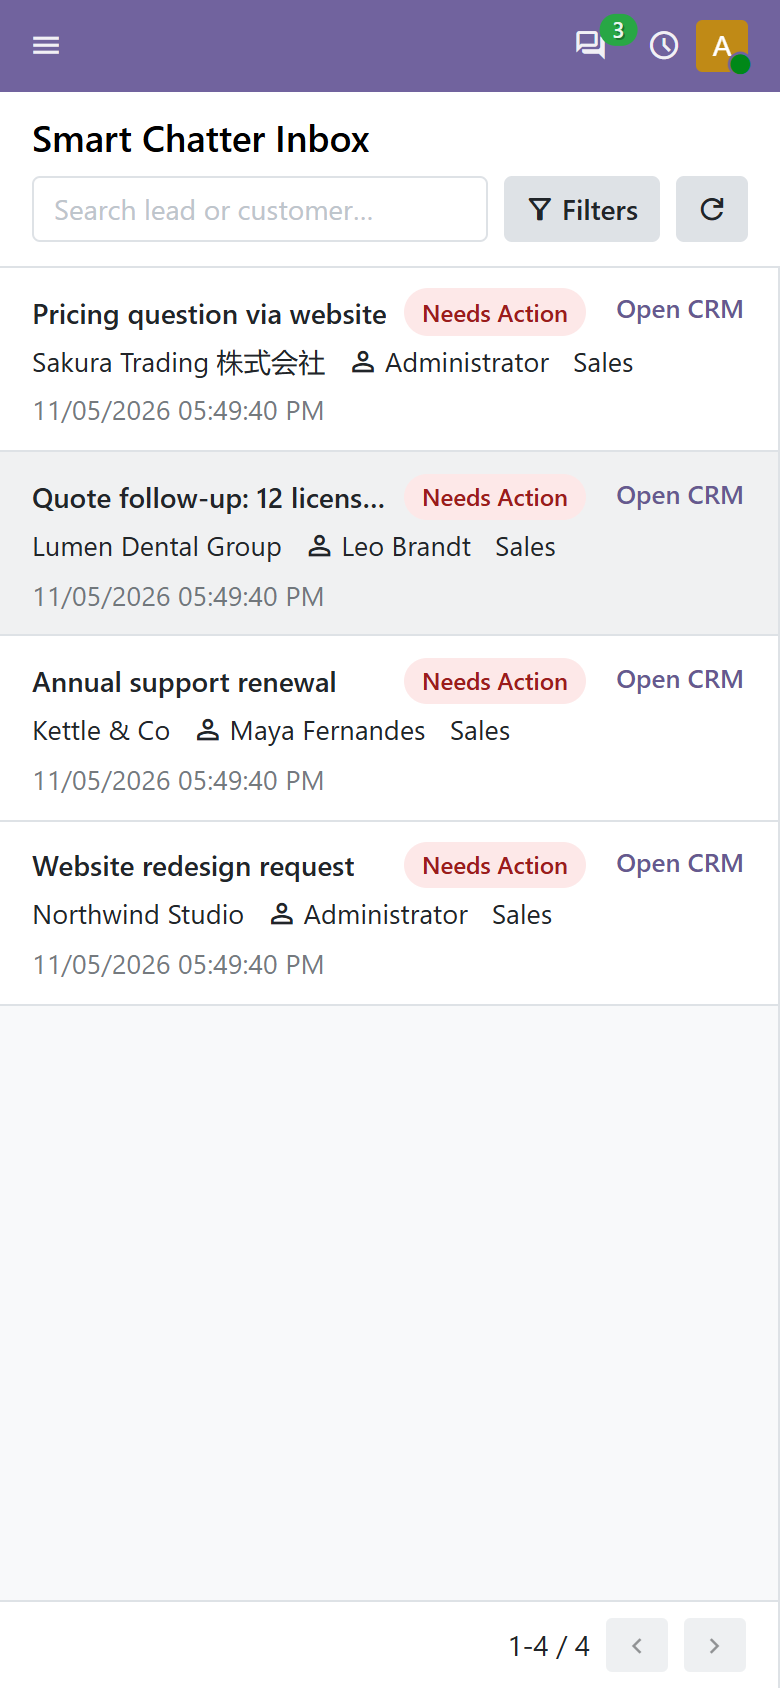
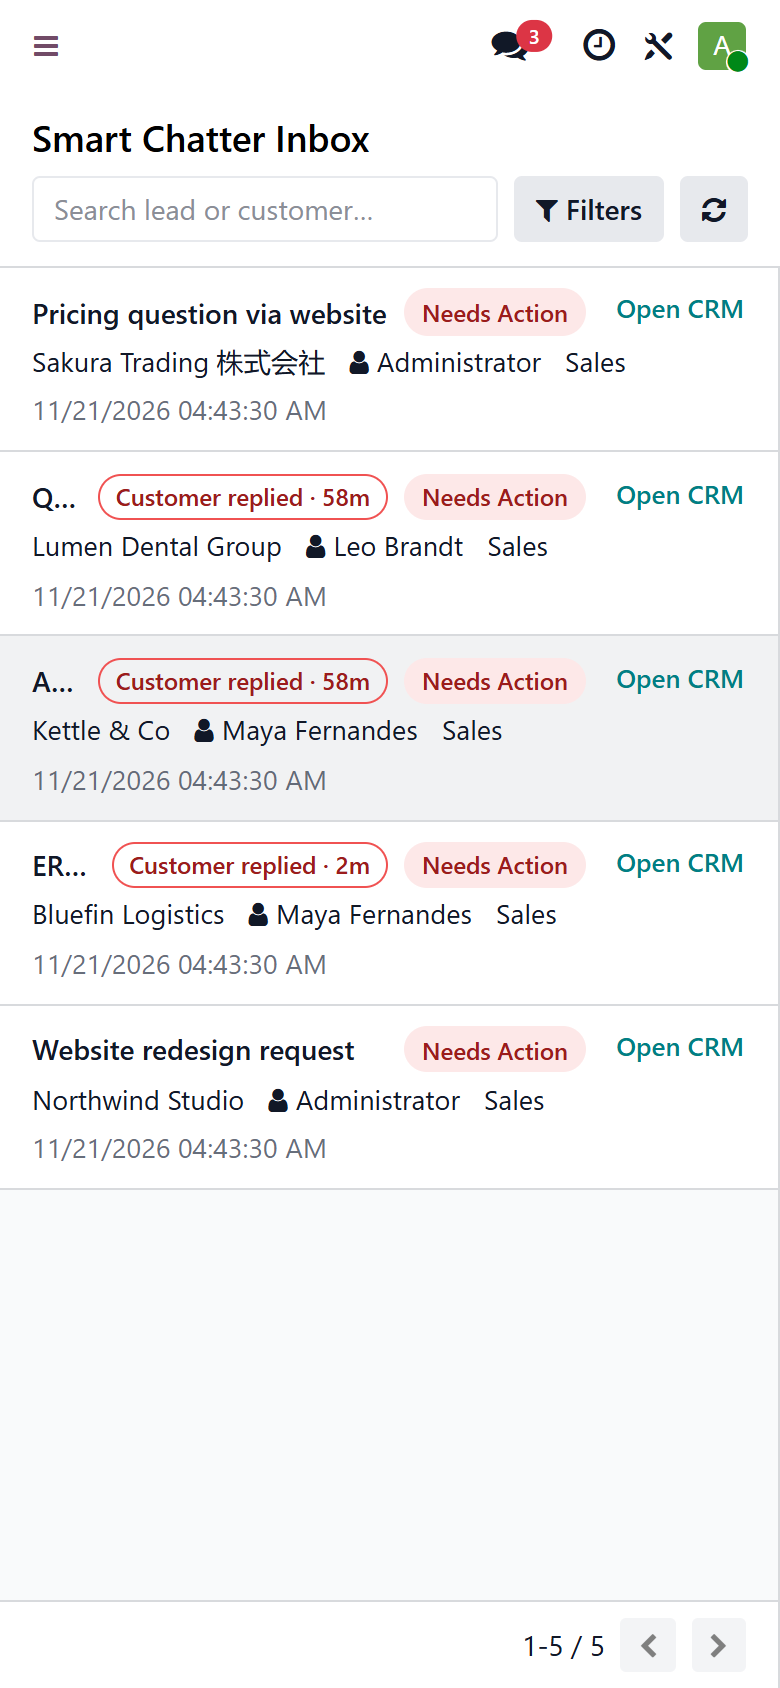
Store listing: Unanswered Leads name, reply-detection demo
- Name "CRM Follow Up Inbox | Unanswered Leads, Reminder & Snooze" and
  summary with "unanswered customer emails" / "unanswered leads"
- Store page: new DETECT demo (gif_reply.gif, a real customer email through
  the mail gateway), Unanswered feature card, two comparison rows, FAQ
  rewritten (how detection works, 17/18 out-of-office caveat), security
  text no longer claims zero privileged code
- hero.png subtitle and numbers.png stats (55+ tests, 4 Odoo versions)
- All GIFs and screenshots re-recorded on 19 with the Unanswered filter
- record_gifs.py: reply scene, snooze date relative to today
- seed_demo.py: restore customer-reply flags on re-run instead of posting
  duplicate emails

diff --git a/sd_smart_chatter_inbox/static/description/index.html b/sd_smart_chatter_inbox/static/description/index.html
@@ -5,8 +5,8 @@
 <!-- ============ HERO ============ -->
 <section class="oe_container" style="padding: 0 0 8px;">
     <img src="hero.png" alt="CRM Follow Up Inbox for Odoo: never lose a lead follow up again. $19 one-time." style="width: 100%; display: block; border-radius: 16px;"/>
-    <h1 style="text-align: center; color: #111827; font-size: 32px; font-weight: 800; margin: 26px 0 6px;">CRM Follow Up Inbox for Odoo: never miss a lead follow up</h1>
-    <p style="text-align: center; color: #4b5563; font-size: 17px; line-height: 1.6; max-width: 820px; margin: 0 auto;">One follow up queue for your whole sales team. See which leads need a reply from you, which are waiting for the customer, snooze a lead until the day you need it, and assign a follow up owner. Works inside Odoo CRM.</p>
+    <h1 style="text-align: center; color: #111827; font-size: 32px; font-weight: 800; margin: 26px 0 6px;">CRM Follow Up Inbox for Odoo: no more unanswered leads</h1>
+    <p style="text-align: center; color: #4b5563; font-size: 17px; line-height: 1.6; max-width: 820px; margin: 0 auto;">One lead follow up queue for your whole sales team. When a customer emails, the lead jumps back to <b>Needs Action</b> and appears in the <b>Unanswered</b> list. When your team replies, it moves to <b>Waiting</b>. Snooze a lead until the day you need it and assign a follow up owner. Works inside Odoo CRM.</p>
     <div style="max-width: 1000px; margin: 22px auto 0; border: 1px solid #c7d2fe; border-radius: 14px; padding: 8px; box-shadow: 0 10px 30px rgba(49,46,129,.18);">
         <img src="gif_filters.gif" alt="Odoo CRM lead follow up queue: search and filter leads by status, owner and team" style="width: 100%; display: block; border-radius: 8px;"/>
     </div>
@@ -33,7 +33,7 @@
             <div style="height: 100%; border: 1px solid #e0e7ff; border-top: 4px solid #4f46e5; border-radius: 12px; padding: 22px;">
                 <p style="font-size: 30px; margin: 0 0 8px;">&#128101;</p>
                 <h3 style="font-size: 20px; font-weight: 700; color: #312e81; margin: 0 0 8px;">Sales teams</h3>
-                <p style="color: #4b5563; font-size: 15px; line-height: 1.6; margin: 0;">Everyone sees which leads are waiting on <b>us</b> and which are waiting on the <b>customer</b>. No more "did anyone reply to this?"</p>
+                <p style="color: #4b5563; font-size: 15px; line-height: 1.6; margin: 0;">Everyone sees which leads are waiting on <b>us</b> and which are waiting on the <b>customer</b>. Customer replies are flagged automatically, so nobody has to ask "did anyone reply to this?"</p>
             </div>
         </div>
         <div class="col-md-4" style="padding: 8px;">
@@ -59,22 +59,29 @@
     <h2 style="text-align: center; color: #111827; font-size: 30px; font-weight: 700; margin: 4px 0 6px;">See it actually happen</h2>
     <p style="text-align: center; color: #4b5563; font-size: 16px; margin: 0 0 28px;">Recorded in a real Odoo database. No mock-ups.</p>
 
+    <div style="border: 1px solid #e0e7ff; border-left: 5px solid #dc2626; border-radius: 12px; padding: 22px; margin-bottom: 26px;">
+        <p style="margin: 0;"><span style="display: inline-block; border: 2px solid #dc2626; color: #dc2626; font-weight: 700; font-size: 13px; padding: 2px 12px; border-radius: 14px;">1 &middot; DETECT</span></p>
+        <h3 style="font-size: 22px; font-weight: 700; color: #111827; margin: 12px 0 6px;">Unanswered leads come back by themselves</h3>
+        <p style="color: #4b5563; font-size: 15px; line-height: 1.6; margin: 0 0 16px;">A customer replies to a lead that was Waiting. The email arrives through Odoo's normal incoming mail, and the lead goes straight back to <b>Needs Action</b> with a <b>Customer replied</b> flag and how long ago they wrote. When your team answers from the chatter, it moves to <b>Waiting</b> again. No one has to triage it by hand.</p>
+        <img src="gif_reply.gif" alt="Odoo CRM unanswered leads: a customer email moves the lead back to Needs Action automatically" style="width: 100%; border-radius: 8px; border: 1px solid #e5e7eb;"/>
+    </div>
+
     <div style="border: 1px solid #e0e7ff; border-left: 5px solid #4f46e5; border-radius: 12px; padding: 22px; margin-bottom: 26px;">
-        <p style="margin: 0;"><span style="display: inline-block; border: 2px solid #4f46e5; color: #4f46e5; font-weight: 700; font-size: 13px; padding: 2px 12px; border-radius: 14px;">1 &middot; TRIAGE</span></p>
+        <p style="margin: 0;"><span style="display: inline-block; border: 2px solid #4f46e5; color: #4f46e5; font-weight: 700; font-size: 13px; padding: 2px 12px; border-radius: 14px;">2 &middot; TRIAGE</span></p>
         <h3 style="font-size: 22px; font-weight: 700; color: #111827; margin: 12px 0 6px;">Set a status and an owner in two clicks</h3>
         <p style="color: #4b5563; font-size: 15px; line-height: 1.6; margin: 0 0 16px;">Select a lead, choose <b>Waiting</b>, pick a team-mate as follow up owner and save. It moves out of Needs Action straight away.</p>
         <img src="gif_triage.gif" alt="Set lead follow up status and follow up owner in Odoo CRM" style="width: 100%; border-radius: 8px; border: 1px solid #e5e7eb;"/>
     </div>
 
     <div style="border: 1px solid #e0e7ff; border-left: 5px solid #2563eb; border-radius: 12px; padding: 22px; margin-bottom: 26px;">
-        <p style="margin: 0;"><span style="display: inline-block; border: 2px solid #2563eb; color: #2563eb; font-weight: 700; font-size: 13px; padding: 2px 12px; border-radius: 14px;">2 &middot; SNOOZE</span></p>
+        <p style="margin: 0;"><span style="display: inline-block; border: 2px solid #2563eb; color: #2563eb; font-weight: 700; font-size: 13px; padding: 2px 12px; border-radius: 14px;">3 &middot; SNOOZE</span></p>
         <h3 style="font-size: 22px; font-weight: 700; color: #111827; margin: 12px 0 6px;">Snooze a lead: a follow up reminder for the right day</h3>
         <p style="color: #4b5563; font-size: 15px; line-height: 1.6; margin: 0 0 16px;">Pick a date and time in your own time zone. When it is due, the lead returns to Needs Action by itself. No scheduled job to configure.</p>
         <img src="gif_snooze.gif" alt="Snooze an Odoo CRM lead until a date and time: follow up reminder" style="width: 100%; border-radius: 8px; border: 1px solid #e5e7eb;"/>
     </div>
 
     <div style="border: 1px solid #e0e7ff; border-left: 5px solid #16a34a; border-radius: 12px; padding: 22px; margin-bottom: 26px;">
-        <p style="margin: 0;"><span style="display: inline-block; border: 2px solid #16a34a; color: #16a34a; font-weight: 700; font-size: 13px; padding: 2px 12px; border-radius: 14px;">3 &middot; ACT</span></p>
+        <p style="margin: 0;"><span style="display: inline-block; border: 2px solid #16a34a; color: #16a34a; font-weight: 700; font-size: 13px; padding: 2px 12px; border-radius: 14px;">4 &middot; ACT</span></p>
         <h3 style="font-size: 22px; font-weight: 700; color: #111827; margin: 12px 0 6px;">Schedule a follow up activity or reply in the chatter</h3>
         <p style="color: #4b5563; font-size: 15px; line-height: 1.6; margin: 0 0 16px;"><b>Schedule Follow-up</b> opens Odoo's own activity dialog. <b>Open Chatter</b> takes you to the lead, where you reply exactly as you do today.</p>
         <img src="gif_chatter.gif" alt="Schedule a follow up activity and open the lead chatter in Odoo" style="width: 100%; border-radius: 8px; border: 1px solid #e5e7eb;"/>
@@ -82,7 +89,7 @@
 
     <div class="row" style="margin: 0; border: 1px solid #e0e7ff; border-left: 5px solid #db2777; border-radius: 12px; padding: 22px 10px; align-items: center;">
         <div class="col-md-6" style="padding: 12px;">
-            <p style="margin: 0;"><span style="display: inline-block; border: 2px solid #db2777; color: #db2777; font-weight: 700; font-size: 13px; padding: 2px 12px; border-radius: 14px;">4 &middot; ON THE GO</span></p>
+            <p style="margin: 0;"><span style="display: inline-block; border: 2px solid #db2777; color: #db2777; font-weight: 700; font-size: 13px; padding: 2px 12px; border-radius: 14px;">5 &middot; ON THE GO</span></p>
             <h3 style="font-size: 22px; font-weight: 700; color: #111827; margin: 12px 0 6px;">Works on phones and tablets</h3>
             <p style="color: #4b5563; font-size: 15px; line-height: 1.6; margin: 0;">Three panes on desktop, a filter drawer on tablets, and a simple list-then-details flow on phones. Clear your queue from anywhere.</p>
         </div>
@@ -107,7 +114,7 @@
             <div style="height: 100%; border: 2px solid #c7d2fe; border-radius: 12px; padding: 22px;">
                 <p style="font-size: 40px; font-weight: 800; margin: 0; color: #4f46e5; line-height: 1;">02</p>
                 <h3 style="color: #111827; font-size: 20px; font-weight: 700; margin: 10px 0 6px;">Fill the queue</h3>
-                <p style="color: #4b5563; font-size: 15px; line-height: 1.6; margin: 0;">Turn on <b>Include untriaged leads</b> in CRM Settings, or set a status on the <b>Smart Inbox</b> tab of any lead.</p>
+                <p style="color: #4b5563; font-size: 15px; line-height: 1.6; margin: 0;">Customer emails add leads to the queue by themselves. To start with every open lead, turn on <b>Include untriaged leads</b> in CRM Settings.</p>
             </div>
         </div>
         <div class="col-md-4" style="padding: 8px;">
@@ -122,11 +129,14 @@
 
 <!-- ============ FEATURES ============ -->
 <section class="oe_container" style="padding: 44px 12px 8px;">
-    <h2 style="text-align: center; color: #111827; font-size: 30px; font-weight: 700; margin: 0 0 6px;">Lead follow up features: reminder, snooze, owner</h2>
+    <h2 style="text-align: center; color: #111827; font-size: 30px; font-weight: 700; margin: 0 0 6px;">Lead follow up features: unanswered leads, reminder, snooze, owner</h2>
     <p style="text-align: center; color: #4b5563; font-size: 16px; margin: 0 0 24px;">Nothing it doesn't.</p>
     <div class="row" style="margin: 0;">
         <div class="col-md-4 col-sm-6" style="padding: 8px;"><div style="height: 100%; border: 1px solid #e5e7eb; border-radius: 12px; padding: 18px;">
-            <h4 style="font-size: 17px; font-weight: 700; color: #111827; margin: 0 0 6px;"><span style="color: #dc2626;">&#9679;</span> Four clear statuses</h4>
+            <h4 style="font-size: 17px; font-weight: 700; color: #111827; margin: 0 0 6px;"><span style="color: #dc2626;">&#9679;</span> Unanswered leads, detected automatically</h4>
+            <p style="color: #4b5563; font-size: 14px; line-height: 1.6; margin: 0;">A customer email moves the lead to Needs Action and the <b>Unanswered</b> list. Your team's reply moves it to Waiting. Notes, automated emails and mass mailings are ignored.</p></div></div>
+        <div class="col-md-4 col-sm-6" style="padding: 8px;"><div style="height: 100%; border: 1px solid #e5e7eb; border-radius: 12px; padding: 18px;">
+            <h4 style="font-size: 17px; font-weight: 700; color: #111827; margin: 0 0 6px;"><span style="color: #d97706;">&#9679;</span> Four clear statuses</h4>
             <p style="color: #4b5563; font-size: 14px; line-height: 1.6; margin: 0;">Needs Action, Waiting, Done and Snoozed, plus quick views for <b>My Queue</b> and <b>All Visible</b>.</p></div></div>
         <div class="col-md-4 col-sm-6" style="padding: 8px;"><div style="height: 100%; border: 1px solid #e5e7eb; border-radius: 12px; padding: 18px;">
             <h4 style="font-size: 17px; font-weight: 700; color: #111827; margin: 0 0 6px;"><span style="color: #4f46e5;">&#9679;</span> Follow up owner</h4>
@@ -144,9 +154,6 @@
             <h4 style="font-size: 17px; font-weight: 700; color: #111827; margin: 0 0 6px;"><span style="color: #7c3aed;">&#9679;</span> Status on the lead form</h4>
             <p style="color: #4b5563; font-size: 14px; line-height: 1.6; margin: 0;">A <b>Smart Inbox</b> tab on every lead lets you triage it without leaving the form.</p></div></div>
         <div class="col-md-4 col-sm-6" style="padding: 8px;"><div style="height: 100%; border: 1px solid #e5e7eb; border-radius: 12px; padding: 18px;">
-            <h4 style="font-size: 17px; font-weight: 700; color: #111827; margin: 0 0 6px;"><span style="color: #dc2626;">&#9679;</span> Keyboard friendly</h4>
-            <p style="color: #4b5563; font-size: 14px; line-height: 1.6; margin: 0;">Arrow keys move through the list, focus is always visible, and screen readers get proper labels.</p></div></div>
-        <div class="col-md-4 col-sm-6" style="padding: 8px;"><div style="height: 100%; border: 1px solid #e5e7eb; border-radius: 12px; padding: 18px;">
             <h4 style="font-size: 17px; font-weight: 700; color: #111827; margin: 0 0 6px;"><span style="color: #4f46e5;">&#9679;</span> Multi-company aware</h4>
             <p style="color: #4b5563; font-size: 14px; line-height: 1.6; margin: 0;">Only companies enabled in the company switcher are shown, and the company filter respects them.</p></div></div>
         <div class="col-md-4 col-sm-6" style="padding: 8px;"><div style="height: 100%; border: 1px solid #e5e7eb; border-radius: 12px; padding: 18px;">
@@ -157,7 +164,7 @@
 
 <!-- ============ NUMBERS ============ -->
 <section class="oe_container" style="padding: 44px 12px 8px;">
-    <img src="numbers.png" alt="$19 one-time, under 100 ms server time per page, under 10 SQL queries per page, 40 automated tests, 0 sudo calls" style="width: 100%; display: block; border-radius: 16px;"/>
+    <img src="numbers.png" alt="$19 one-time, under 100 ms server time per page, under 10 SQL queries per page, 55+ automated tests, 4 Odoo versions: 17 to 20" style="width: 100%; display: block; border-radius: 16px;"/>
     <p style="text-align: center; color: #6b7280; font-size: 13px; margin: 10px 0 0;">Measured on a test database with 10,000 opportunities and 100,000 chatter messages (server-side, p95).</p>
 </section>
 
@@ -167,7 +174,7 @@
         <div class="col-md-6" style="padding: 12px;">
             <p style="color: #4f46e5; font-weight: 700; letter-spacing: .12em; font-size: 13px; margin: 0;">SECURITY &amp; GOVERNANCE</p>
             <h2 style="color: #111827; font-size: 28px; font-weight: 700; margin: 6px 0 12px;">It never shows more than Odoo already allows</h2>
-            <p style="color: #4b5563; font-size: 15px; line-height: 1.65; margin: 0;">Every list, count, filter and update runs as the logged-in user with your normal access rights and record rules. The app has no superuser shortcuts, so a salesperson who can only see their own leads sees only their own leads here too.</p>
+            <p style="color: #4b5563; font-size: 15px; line-height: 1.65; margin: 0;">Every list, count, filter and update runs as the logged-in user with your normal access rights and record rules, so a salesperson who can only see their own leads sees only their own leads here too. The one privileged step is reply detection: when a message is posted on a lead, it updates that lead's own follow up status, and shows nothing to anyone.</p>
         </div>
         <div class="col-md-6" style="padding: 12px;">
             <div style="border: 1px solid #e0e7ff; border-left: 4px solid #4f46e5; border-radius: 10px; padding: 11px 14px; margin-bottom: 8px; color: #1f2937; font-size: 15px;">&#128274; Respects record rules, multi-company and team visibility</div>
@@ -190,6 +197,8 @@
                 <th style="padding: 14px; text-align: center; color: #312e81; font-weight: 700;">With this app</th>
             </tr>
             <tr style="border-bottom: 1px solid #e5e7eb;"><td style="padding: 12px 14px; color: #1f2937;">Which conversations are waiting on us?</td><td style="padding: 12px 14px; text-align: center; color: #9ca3af;">Open each lead</td><td style="padding: 12px 14px; text-align: center; color: #15803d; font-weight: 700;">&#10003; Needs Action list</td></tr>
+            <tr style="border-bottom: 1px solid #e5e7eb;"><td style="padding: 12px 14px; color: #1f2937;">Which leads did the customer reply to?</td><td style="padding: 12px 14px; text-align: center; color: #9ca3af;">Open each lead</td><td style="padding: 12px 14px; text-align: center; color: #15803d; font-weight: 700;">&#10003; Unanswered list</td></tr>
+            <tr style="border-bottom: 1px solid #e5e7eb;"><td style="padding: 12px 14px; color: #1f2937;">Move a lead back when the customer writes?</td><td style="padding: 12px 14px; text-align: center; color: #9ca3af;">By hand</td><td style="padding: 12px 14px; text-align: center; color: #15803d; font-weight: 700;">&#10003; Automatic</td></tr>
             <tr style="border-bottom: 1px solid #e5e7eb;"><td style="padding: 12px 14px; color: #1f2937;">Which ones are waiting on the customer?</td><td style="padding: 12px 14px; text-align: center; color: #9ca3af;">Not tracked</td><td style="padding: 12px 14px; text-align: center; color: #15803d; font-weight: 700;">&#10003; Waiting list</td></tr>
             <tr style="border-bottom: 1px solid #e5e7eb;"><td style="padding: 12px 14px; color: #1f2937;">Who is following this up?</td><td style="padding: 12px 14px; text-align: center; color: #9ca3af;">Salesperson only</td><td style="padding: 12px 14px; text-align: center; color: #15803d; font-weight: 700;">&#10003; Separate follow up owner</td></tr>
             <tr style="border-bottom: 1px solid #e5e7eb;"><td style="padding: 12px 14px; color: #1f2937;">Hide it until next Tuesday at 10:00?</td><td style="padding: 12px 14px; text-align: center; color: #9ca3af;">&#10007;</td><td style="padding: 12px 14px; text-align: center; color: #15803d; font-weight: 700;">&#10003; Snooze</td></tr>
@@ -213,7 +222,7 @@
 <!-- ============ ALSO KNOWN AS ============ -->
 <section class="oe_container" style="padding: 32px 12px 0;">
     <div style="max-width: 880px; margin: 0 auto; border: 1px dashed #c7d2fe; border-radius: 12px; padding: 16px 18px;">
-        <p style="color: #4b5563; font-size: 15px; line-height: 1.7; margin: 0;"><b style="color: #312e81;">Looking for something else by name?</b> Teams use this app as a <b>sales follow up tracker</b>, <b>lead follow up reminder</b>, <b>CRM to-do list</b>, <b>shared sales inbox</b>, <b>lead snooze</b>, <b>follow up management</b> and <b>CRM activity queue</b> for Odoo 17, 18, 19 and 20, Community and Enterprise.</p>
+        <p style="color: #4b5563; font-size: 15px; line-height: 1.7; margin: 0;"><b style="color: #312e81;">Looking for something else by name?</b> Teams use this app as an <b>unanswered leads list</b>, <b>customer reply tracker</b>, <b>sales follow up tracker</b>, <b>lead follow up reminder</b>, <b>CRM to-do list</b>, <b>shared sales inbox</b>, <b>lead snooze</b>, <b>follow up management</b> and <b>CRM activity queue</b> for Odoo 17, 18, 19 and 20, Community and Enterprise.</p>
     </div>
 </section>
 
@@ -222,12 +231,16 @@
     <h2 style="text-align: center; color: #111827; font-size: 28px; font-weight: 700; margin: 0 0 22px;">FAQ</h2>
     <div style="max-width: 880px; margin: 0 auto;">
         <div style="border: 1px solid #e5e7eb; border-radius: 12px; padding: 16px 18px; margin-bottom: 10px;">
-            <p style="font-weight: 700; color: #312e81; font-size: 16px; margin: 0 0 6px;">Does it read or send emails?</p>
-            <p style="color: #4b5563; font-size: 15px; line-height: 1.6; margin: 0;">No. It does not connect to Gmail, Outlook or IMAP and sends nothing. Your team replies in the lead's chatter exactly as before. The statuses are your team's own workflow; the app does not guess whether an email was answered.</p>
+            <p style="font-weight: 700; color: #312e81; font-size: 16px; margin: 0 0 6px;">How does it know a lead is unanswered?</p>
+            <p style="color: #4b5563; font-size: 15px; line-height: 1.6; margin: 0;">It looks at who wrote the last message on the lead. A customer email that reaches the lead through Odoo's normal incoming mail (your mail alias or mail server) flags it <b>Unanswered</b> and moves it to Needs Action. A message your team sends from the chatter moves it to Waiting. Internal notes, automated emails, mass mailings and OdooBot are ignored. It does not track whether an email was opened. On Odoo 17 and 18, out-of-office auto-replies also count as a customer message. You can turn detection off in CRM Settings.</p>
+        </div>
+        <div style="border: 1px solid #e5e7eb; border-radius: 12px; padding: 16px 18px; margin-bottom: 10px;">
+            <p style="font-weight: 700; color: #312e81; font-size: 16px; margin: 0 0 6px;">Does it send emails or connect to Gmail or Outlook?</p>
+            <p style="color: #4b5563; font-size: 15px; line-height: 1.6; margin: 0;">No. It sends nothing and adds no mail connection. It works with the emails Odoo already logs on your leads, and your team replies in the lead's chatter exactly as before.</p>
         </div>
         <div style="border: 1px solid #e5e7eb; border-radius: 12px; padding: 16px 18px; margin-bottom: 10px;">
             <p style="font-weight: 700; color: #312e81; font-size: 16px; margin: 0 0 6px;">Why is my inbox empty after installing?</p>
-            <p style="color: #4b5563; font-size: 15px; line-height: 1.6; margin: 0;">Installing changes none of your existing leads. Turn on <b>Include untriaged leads</b> in CRM Settings to show every open lead, or set a status on a lead's <b>Smart Inbox</b> tab.</p>
+            <p style="color: #4b5563; font-size: 15px; line-height: 1.6; margin: 0;">Installing changes none of your existing leads and does not scan old emails. Leads join the queue when a customer writes next, or when you set a status on a lead's <b>Smart Inbox</b> tab. To see every open lead straight away, turn on <b>Include untriaged leads</b> in CRM Settings.</p>
         </div>
         <div style="border: 1px solid #e5e7eb; border-radius: 12px; padding: 16px 18px; margin-bottom: 10px;">
             <p style="font-weight: 700; color: #312e81; font-size: 16px; margin: 0 0 6px;">Who can use it?</p>

diff --git a/sd_smart_chatter_inbox/__manifest__.py b/sd_smart_chatter_inbox/__manifest__.py
@@ -1,6 +1,6 @@
 {
-    "name": "CRM Follow Up Inbox | Lead Follow Up, Reminder & Snooze",
-    "summary": "Lead follow up inbox for Odoo CRM: follow up reminder queue, snooze leads, assign follow up owner, track leads waiting for reply. Sales follow up tracker for teams.",
+    "name": "CRM Follow Up Inbox | Unanswered Leads, Reminder & Snooze",
+    "summary": "Lead follow up inbox for Odoo CRM: detects unanswered customer emails automatically, unanswered leads list, follow up reminder queue, snooze leads, assign follow up owner, track leads waiting for reply. Sales follow up tracker for teams.",
     "version": "20.0.1.1.0",
     "category": "Sales/CRM",
     "author": "Softdeviser",

diff --git a/sd_smart_chatter_inbox/CHANGELOG.md b/sd_smart_chatter_inbox/CHANGELOG.md
@@ -4,6 +4,7 @@
 
 - Reply detection: a customer email or message moves the lead to Needs Action and marks it "Customer replied"; a team reply from the chatter moves Needs Action to Waiting. Notes, automated messages, mass mailings, out-of-office replies and OdooBot are ignored.
 - New "Unanswered" quick filter, "Customer replied" chip with age, and last customer message / last team reply dates in the details pane and on the lead form.
+- Store listing renamed to "CRM Follow Up Inbox | Unanswered Leads, Reminder & Snooze", with a new reply-detection demo and re-recorded GIFs and screenshots.
 - New setting "Detect customer replies automatically" (on by default). Existing leads and old messages are not changed on upgrade.
 - Tests: 14 reply-detection tests through the real mail gateway, 2 more Hoot tests and a tour step.
 

diff --git a/sd_smart_chatter_inbox/README.md b/sd_smart_chatter_inbox/README.md
@@ -20,7 +20,7 @@ A CRM follow-up queue. Each lead or opportunity gets a follow-up status (**Needs
 
 ## Installation
 1. Copy `sd_smart_chatter_inbox` into a folder on your `addons_path`.
-2. Update the Apps list and install **CRM Follow Up Inbox | Lead Follow Up, Reminder & Snooze** (technical name `sd_smart_chatter_inbox`).
+2. Update the Apps list and install **CRM Follow Up Inbox | Unanswered Leads, Reminder & Snooze** (technical name `sd_smart_chatter_inbox`).
 3. Give users the group **Smart Chatter Inbox / User** (Settings > Users > Access Rights > Sales section). The administrator gets it on install.
 4. Optional: CRM > Configuration > Settings > **Include untriaged leads**. **Detect customer replies automatically** is on by default; it only reacts to messages posted after install.
 
